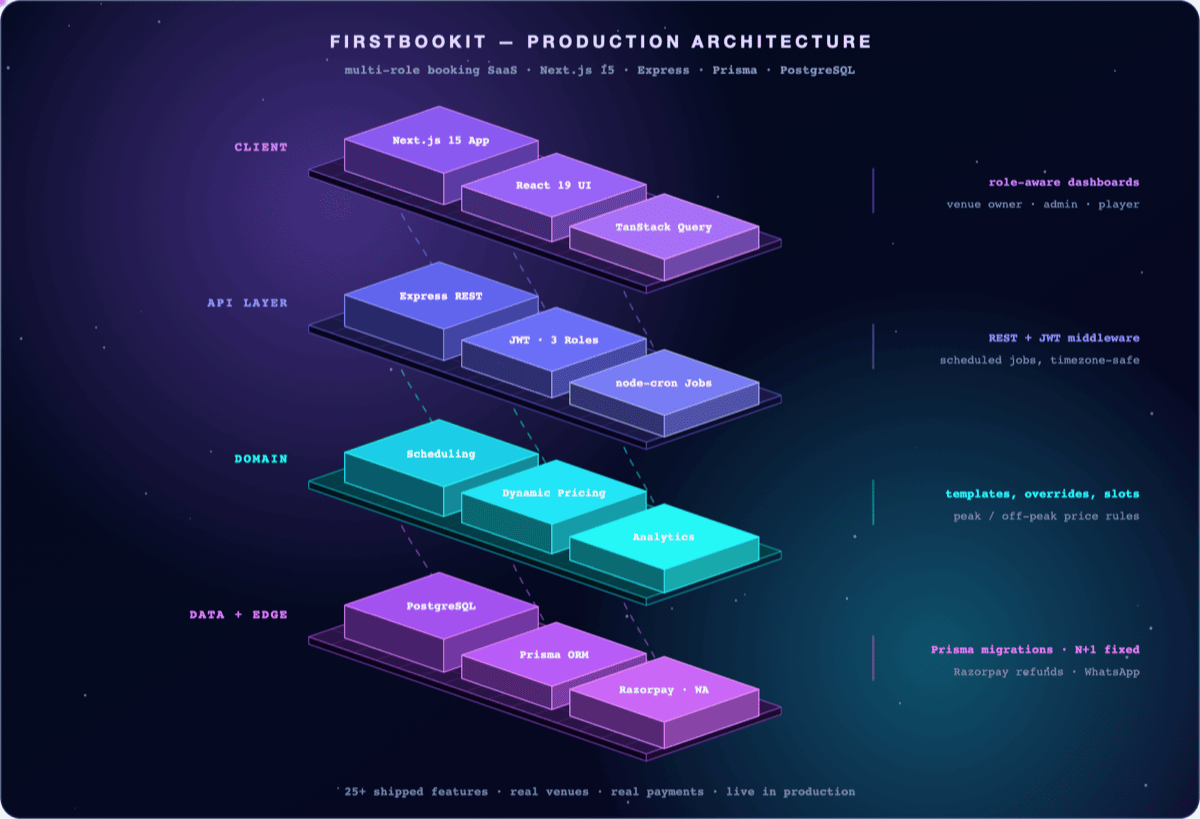
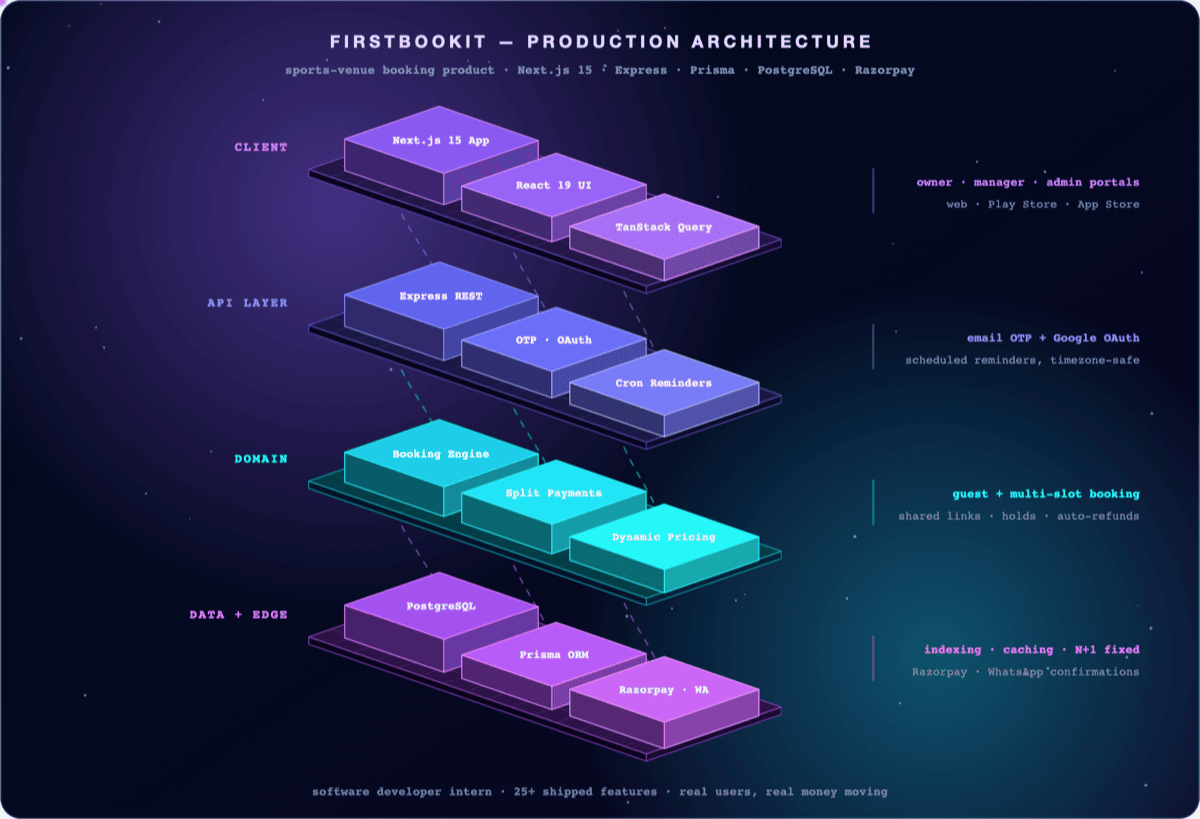
fix: correct FirstBookIt role and details, and the LinkedIn link
The FirstBookIt section described an ongoing developer role; it was a
Software Developer internship that has now ended, and the product ships to
Google Play and the App Store as well as the web. Rewrite the section from
Het's own wrap-up post: split payments, owner/manager/admin portals, the
running-club module, OTP + Google OAuth, and the backend performance work.

Drop three outcome clauses that were inferred rather than sourced, and fix
the "3 user roles (venue owner, admin, player)" line — the portals are
owner, manager and admin. Update the architecture diagram to match.

The LinkedIn badge and contact link pointed at a URL that is not Het's
profile; point both at the real one.

Also let make-png-fallbacks.py render only the scenes named on the command
line, so unchanged PNGs stop churning on every run.

diff --git a/assets/generate-3d-assets.py b/assets/generate-3d-assets.py
@@ -202,22 +202,22 @@ def architecture():
     W, H = 1200, 820
     o = [svg_open(W, H), defs_common(), card(W, H), stars(W, H, 55, seed=19)]
     o.append(label(600, 48, "FIRSTBOOKIT — PRODUCTION ARCHITECTURE", 17, "#e9d5ff", ls="4"))
-    o.append(label(600, 74, "multi-role booking SaaS · Next.js 15 · Express · Prisma · PostgreSQL", 12.5, "#8093b8", font=MONO))
+    o.append(label(600, 74, "sports-venue booking product · Next.js 15 · Express · Prisma · PostgreSQL · Razorpay", 12.5, "#8093b8", font=MONO))
 
     s = 26.0
     PW, PD = 15, 6
     layers = [
         ("CLIENT",      "#8b5cf6", 212, [("Next.js 15 App", 0.4, 0.6, 4.4, 4.2, 1.5), ("React 19 UI", 5.6, 0.6, 4.0, 4.2, 1.1), ("TanStack Query", 10.4, 0.6, 4.2, 4.2, 0.9)]),
-        ("API LAYER",   "#6366f1", 368, [("Express REST", 0.4, 0.6, 4.4, 4.2, 1.5), ("JWT · 3 Roles", 5.6, 0.6, 4.0, 4.2, 1.2), ("node-cron Jobs", 10.4, 0.6, 4.2, 4.2, 0.9)]),
-        ("DOMAIN",      "#22d3ee", 524, [("Scheduling", 0.4, 0.6, 4.4, 4.2, 1.4), ("Dynamic Pricing", 5.6, 0.6, 4.0, 4.2, 1.4), ("Analytics", 10.4, 0.6, 4.2, 4.2, 1.0)]),
+        ("API LAYER",   "#6366f1", 368, [("Express REST", 0.4, 0.6, 4.4, 4.2, 1.5), ("OTP · OAuth", 5.6, 0.6, 4.0, 4.2, 1.2), ("Cron Reminders", 10.4, 0.6, 4.2, 4.2, 0.9)]),
+        ("DOMAIN",      "#22d3ee", 524, [("Booking Engine", 0.4, 0.6, 4.4, 4.2, 1.4), ("Split Payments", 5.6, 0.6, 4.0, 4.2, 1.4), ("Dynamic Pricing", 10.4, 0.6, 4.2, 4.2, 1.0)]),
         ("DATA + EDGE", "#a855f7", 680, [("PostgreSQL", 0.4, 0.6, 4.4, 4.2, 1.6), ("Prisma ORM", 5.6, 0.6, 4.0, 4.2, 1.0), ("Razorpay · WA", 10.4, 0.6, 4.2, 4.2, 1.2)]),
     ]
 
     notes = [
-        ["role-aware dashboards", "venue owner · admin · player"],
-        ["REST + JWT middleware", "scheduled jobs, timezone-safe"],
-        ["templates, overrides, slots", "peak / off-peak price rules"],
-        ["Prisma migrations · N+1 fixed", "Razorpay refunds · WhatsApp"],
+        ["owner · manager · admin portals", "web · Play Store · App Store"],
+        ["email OTP + Google OAuth", "scheduled reminders, timezone-safe"],
+        ["guest + multi-slot booking", "shared links · holds · auto-refunds"],
+        ["indexing · caching · N+1 fixed", "Razorpay · WhatsApp confirmations"],
     ]
     ox = 545 - (PW - PD) * KX * s / 2
     anchors = []  # per layer: list of (screen x, top y, bottom y)
@@ -264,7 +264,7 @@ def architecture():
     o.append("".join(body))
 
     # side stats
-    o.append(f'<g opacity=".9">{label(600, 796, "25+ shipped features  ·  real venues  ·  real payments  ·  live in production", 12, "#7c8db5", font=MONO)}</g>')
+    o.append(f'<g opacity=".9">{label(600, 796, "software developer intern  ·  25+ shipped features  ·  real users, real money moving", 12, "#7c8db5", font=MONO)}</g>')
     o.append('</svg>')
     return "".join(o)
 

diff --git a/assets/make-png-fallbacks.py b/assets/make-png-fallbacks.py
@@ -6,18 +6,21 @@ SVG, so README.md serves the .svg above 768px and these PNGs everywhere else.
 Re-run after changing any artwork:
 
     python3 assets/generate-3d-assets.py
-    python3 assets/make-png-fallbacks.py
+    python3 assets/make-png-fallbacks.py                   # every scene
+    python3 assets/make-png-fallbacks.py hero-3d clients-3d  # just these
 
 macOS only — uses qlmanage (render), sips (crop/resize) and pngquant (compress).
 """
 
-import os, re, subprocess
+import os, re, subprocess, sys
 SRC = os.path.dirname(os.path.abspath(__file__))
 OUT = os.path.join(SRC, "png")
 os.makedirs(OUT, exist_ok=True)
 W = 1600
+ONLY = set(sys.argv[1:])
 for n in sorted(os.listdir(SRC)):
     if not n.endswith(".svg"): continue
+    if ONLY and n[:-4] not in ONLY: continue
     src = open(os.path.join(SRC, n)).read()
     m = re.search(r'viewBox="0 0 (\d+) (\d+)"', src)
     w, h = int(m.group(1)), int(m.group(2))

diff --git a/README.md b/README.md
@@ -5,7 +5,7 @@
 
 <p align="center">
   <a href="https://buildbyhet.me"><img src="https://img.shields.io/badge/Portfolio-buildbyhet.me-8B5CF6?style=for-the-badge&logo=firefox&logoColor=white" alt="Portfolio"></a>
-  <a href="https://linkedin.com/in/Hetkumar-Sanjaykumar-Patel"><img src="https://img.shields.io/badge/LinkedIn-0077B5?style=for-the-badge&logo=linkedin&logoColor=white" alt="LinkedIn"></a>
+  <a href="https://www.linkedin.com/in/hetkumar-sanjaykumar-patel-54730933b/"><img src="https://img.shields.io/badge/LinkedIn-0077B5?style=for-the-badge&logo=linkedin&logoColor=white" alt="LinkedIn"></a>
   <a href="mailto:het@buildbyhet.me"><img src="https://img.shields.io/badge/Email-D14836?style=for-the-badge&logo=gmail&logoColor=white" alt="Email"></a>
   <a href="https://instagram.com/hetpatel0812"><img src="https://img.shields.io/badge/Instagram-E4405F?style=for-the-badge&logo=instagram&logoColor=white" alt="Instagram"></a>
   <!-- Drop resume.pdf into this repo, then uncomment the line below to publish it:
@@ -23,20 +23,20 @@
 | **Available** | Immediately for internships & contract work · part-time alongside coursework |
 | **Location** | Ahmedabad, India 🇮🇳 · open to remote and relocation |
 | **Strongest in** | Next.js · TypeScript · Node/Express · PostgreSQL + Prisma · production LLM APIs |
-| **Reach me** | [het@buildbyhet.me](mailto:het@buildbyhet.me) · [LinkedIn](https://linkedin.com/in/Hetkumar-Sanjaykumar-Patel) · usually reply within a day |
+| **Reach me** | [het@buildbyhet.me](mailto:het@buildbyhet.me) · [LinkedIn](https://www.linkedin.com/in/hetkumar-sanjaykumar-patel-54730933b/) · usually reply within a day |
 
 ---
 
 ## 🚀 About Me
 
-I'm a **Computer Engineering student** and **full-stack developer** working on **[FirstBookit](https://firstbookit.in)** — a live, multi-role sports-venue booking SaaS — where I own features end-to-end: from schema design and API architecture to frontend implementation and production deployment.
+I'm a **Computer Engineering student** and **full-stack developer**. I recently completed a **Software Developer internship at [FirstBookIt](https://firstbookit.in)** — a live sports-venue booking product on the web, Google Play and the App Store — where I owned modules end to end: the booking engine, split payments, the owner/manager/admin portals, auth and backend performance.
 
 I care about shipping things that actually work — clean architecture, production deployments, and code that solves a real problem, not just a demo.
 
-- 🔭 **Currently building:** FirstBookit — a live booking SaaS (Next.js · Express · Prisma · PostgreSQL) — scheduling, dynamic pricing, multi-role auth, Razorpay payments, revenue analytics
+- 🔭 **Right now:** preparing for the Odoo × LDCE Hackathon '26 24-hour finale (3–4 Oct), and building **Vajra** — an offline, autonomous find → patch → prove security system for Terrier Cyber Quest 2026
 - 🤖 **Exploring:** AI-powered products using LLM APIs (Groq, Anthropic/Claude)
-- 🏗 **Shipped:** 25+ production features on a live SaaS · **7 live client websites** · 19+ builds across 16 industries
-- 🤝 **Building with teams:** shared repos and PR-reviewed workflows across Smart India Hackathon 2026, the Gujarat Police Innovation Challenge and SEMICON India — including commits into teammates' repositories, not just my own
+- 🏗 **Shipped:** 25+ production features in a completed internship · **7 live client websites** · 19+ builds across 16 industries
+- 🤝 **Building with teams:** on-site finals at Odoo India HQ (Odoo Hackathon 2026), ISRO's Bharatiya Antariksh Hackathon, Smart India Hackathon 2026, the Gujarat Police Innovation Challenge and SEMICON India — shared repos, PR-reviewed workflows, commits into teammates' repositories
 - 🌱 **Deepening:** Data Structures & Algorithms (Java) and system-design fundamentals
 - 📫 **Reach me:** het@buildbyhet.me · [buildbyhet.me](https://buildbyhet.me)
 
@@ -48,7 +48,7 @@ I care about shipping things that actually work — clean architecture, producti
 - 🎨 **Frontend Engineering** — responsive, modern UIs with React, Next.js & Tailwind CSS; performance-focused and mobile-first
 - 🏗 **Backend & Architecture** — multi-role JWT auth, SaaS products, scheduled jobs, payment integrations, serverless & database design
 - 🤖 **AI Integration** — building products on top of LLM APIs (Groq, Claude) with streaming, RAG, and real-time interaction
-- 🚀 **SaaS Product Development** — working on a live production platform with real users, real payments, and real deadlines
+- 🚀 **SaaS Product Development** — shipped on a live production platform with real users, real payments and real deadlines
 
 <picture>
   <source media="(min-width: 768px)" srcset="./assets/ship-loop-3d.svg">
@@ -78,23 +78,25 @@ I care about shipping things that actually work — clean architecture, producti
 
 ## 💼 Professional Work
 
-### 🏟 [FirstBookit](https://firstbookit.in) — Sports Venue Booking SaaS · Developer
+### 🏟 [FirstBookIt](https://firstbookit.in) — Software Developer Intern · Completed
 
-A live, production SaaS platform for sports venue management serving real venues and players. I work as a developer on the team, owning features end-to-end.
+Full-stack across the **web app, mobile app and backend** of a live sports-venue booking product — live on the web, **Google Play** and the **App Store**. I owned modules end to end, and left with an appreciation letter from the team.
 
 <picture>
   <source media="(min-width: 768px)" srcset="./assets/architecture-3d.svg">
   <img width="100%" src="./assets/png/architecture-3d.png" alt="FirstBookit production architecture — layered isometric diagram" />
 </picture>
 
-**What I've built & shipped — 25+ features across 3 user roles (venue owner · admin · player):**
-- 📅 **Schedule template system** — recurring weekly schedules with per-date overrides, so a venue configures a season once instead of editing every day
-- 💰 **Dynamic pricing engine** — peak/off-peak rules evaluated timezone-safe, removing a class of bugs that had been mispricing slots across IST day boundaries
-- 📊 **Revenue analytics dashboard** — venue-level earnings, booking trends and customer insights, replacing manual register-keeping
-- 🧾 **Multi-slot booking flow** — cart-style checkout across multiple slots in one transaction, with Razorpay payments, webhook-confirmed bookings and refunds
-- 📱 **WhatsApp booking confirmations** — automated confirmations at the moment payment captures, cutting no-shows from missed SMS
-- 🔔 **In-app notification system** — real-time alerts for bookings, cancellations and payments
-- 🐛 **Critical production fixes** — eliminated N+1 queries on the booking list, resolved a timezone bug affecting slot boundaries, all through a PR-reviewed workflow
+**What I shipped:**
+- 🧾 **Core booking engine** — guest booking, multi-slot booking and Razorpay payment integration, with webhook-confirmed bookings and refunds
+- 💸 **Split payments** — several players pay for one booking through shared payment links, with payment holds and automatic refunds on expiry
+- 🗂 **Owner, Manager and Admin portals** — slot and pricing management, payouts, coupons, approval workflows and analytics
+- 📅 **Schedule templates & dynamic pricing** — recurring weekly schedules with per-date overrides; peak/off-peak rules calculated timezone-safe
+- 🏃 **Running-club module** — paid event registration and GPS-based run tracking
+- 🔐 **Auth & notifications** — email OTP and Google OAuth; scheduled reminders, WhatsApp booking confirmations and in-app alerts
+- ⚡ **Backend performance** — pagination, caching, database indexing and query optimisation, including eliminating N+1 queries and fixing a timezone bug on slot boundaries
+
+> The lesson that stuck: code behaves differently once real users and real money move through it — payment states that fail halfway, edge cases you never hit locally, and performance problems that only appear at scale.
 
 <!-- Numbers to add once you can share them: venues live · monthly bookings · GMV processed ·
      dashboard load time before/after the N+1 fix · uptime. One real figure beats three adjectives. -->
